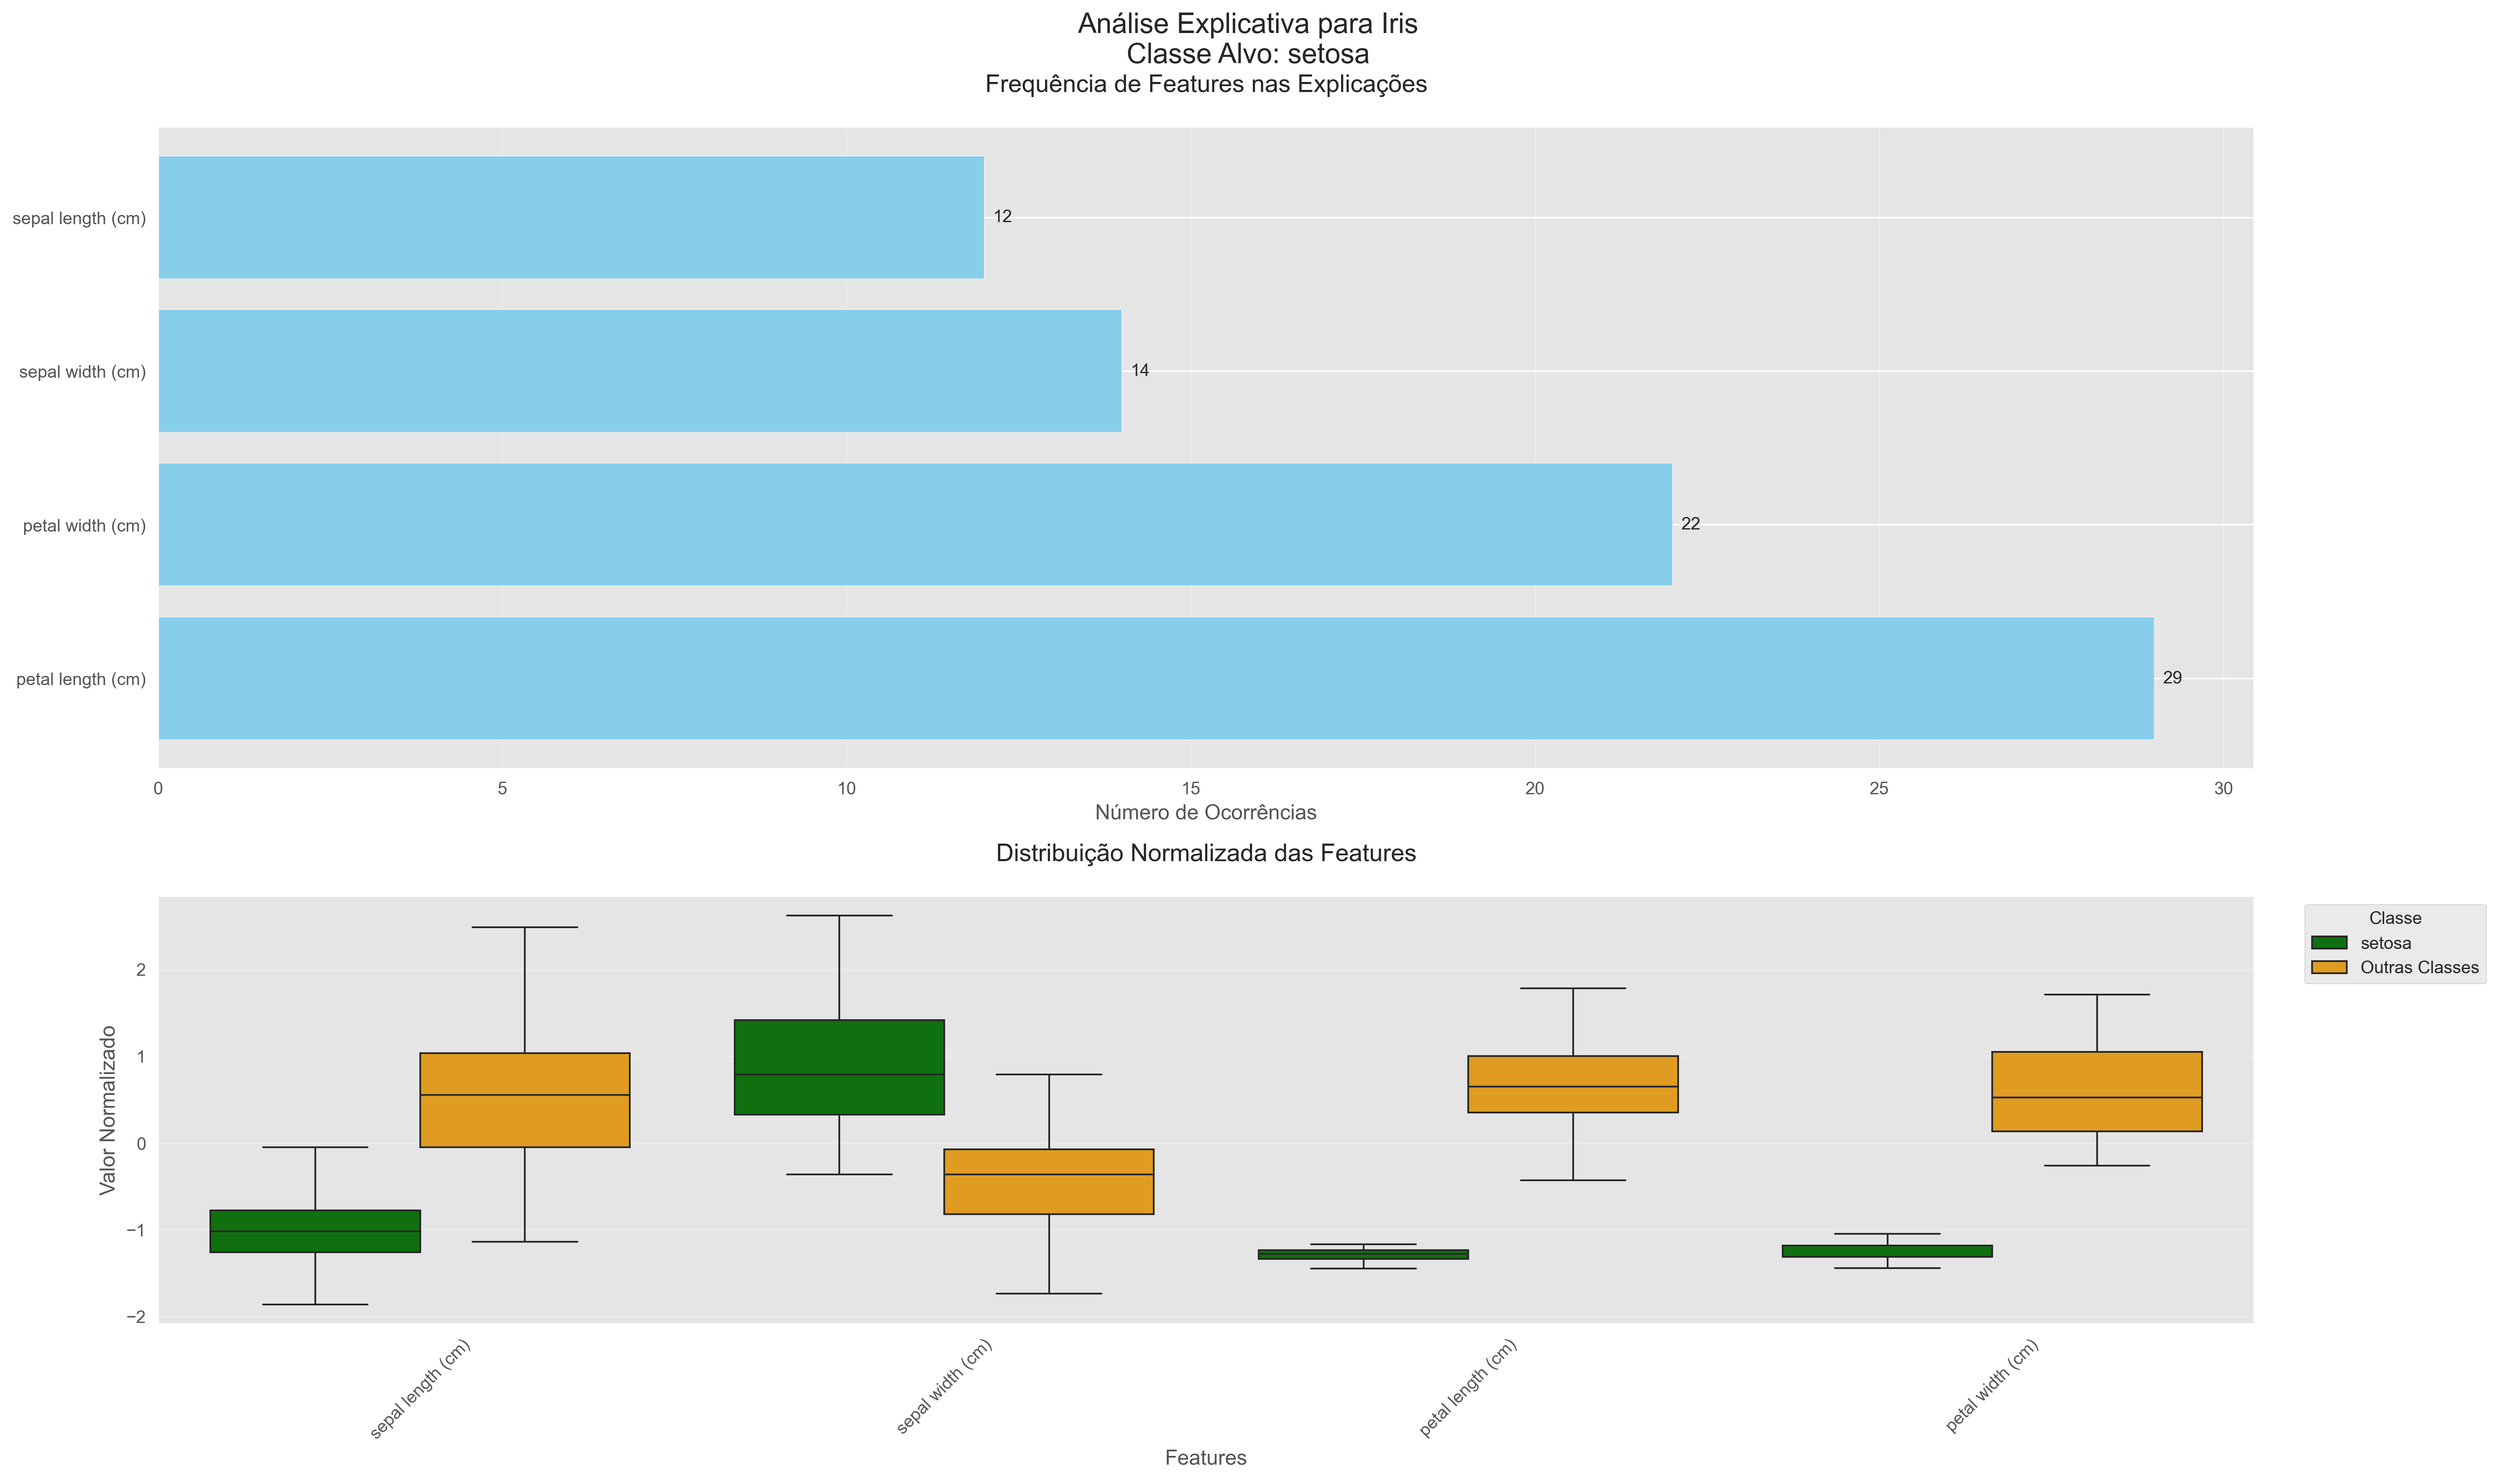
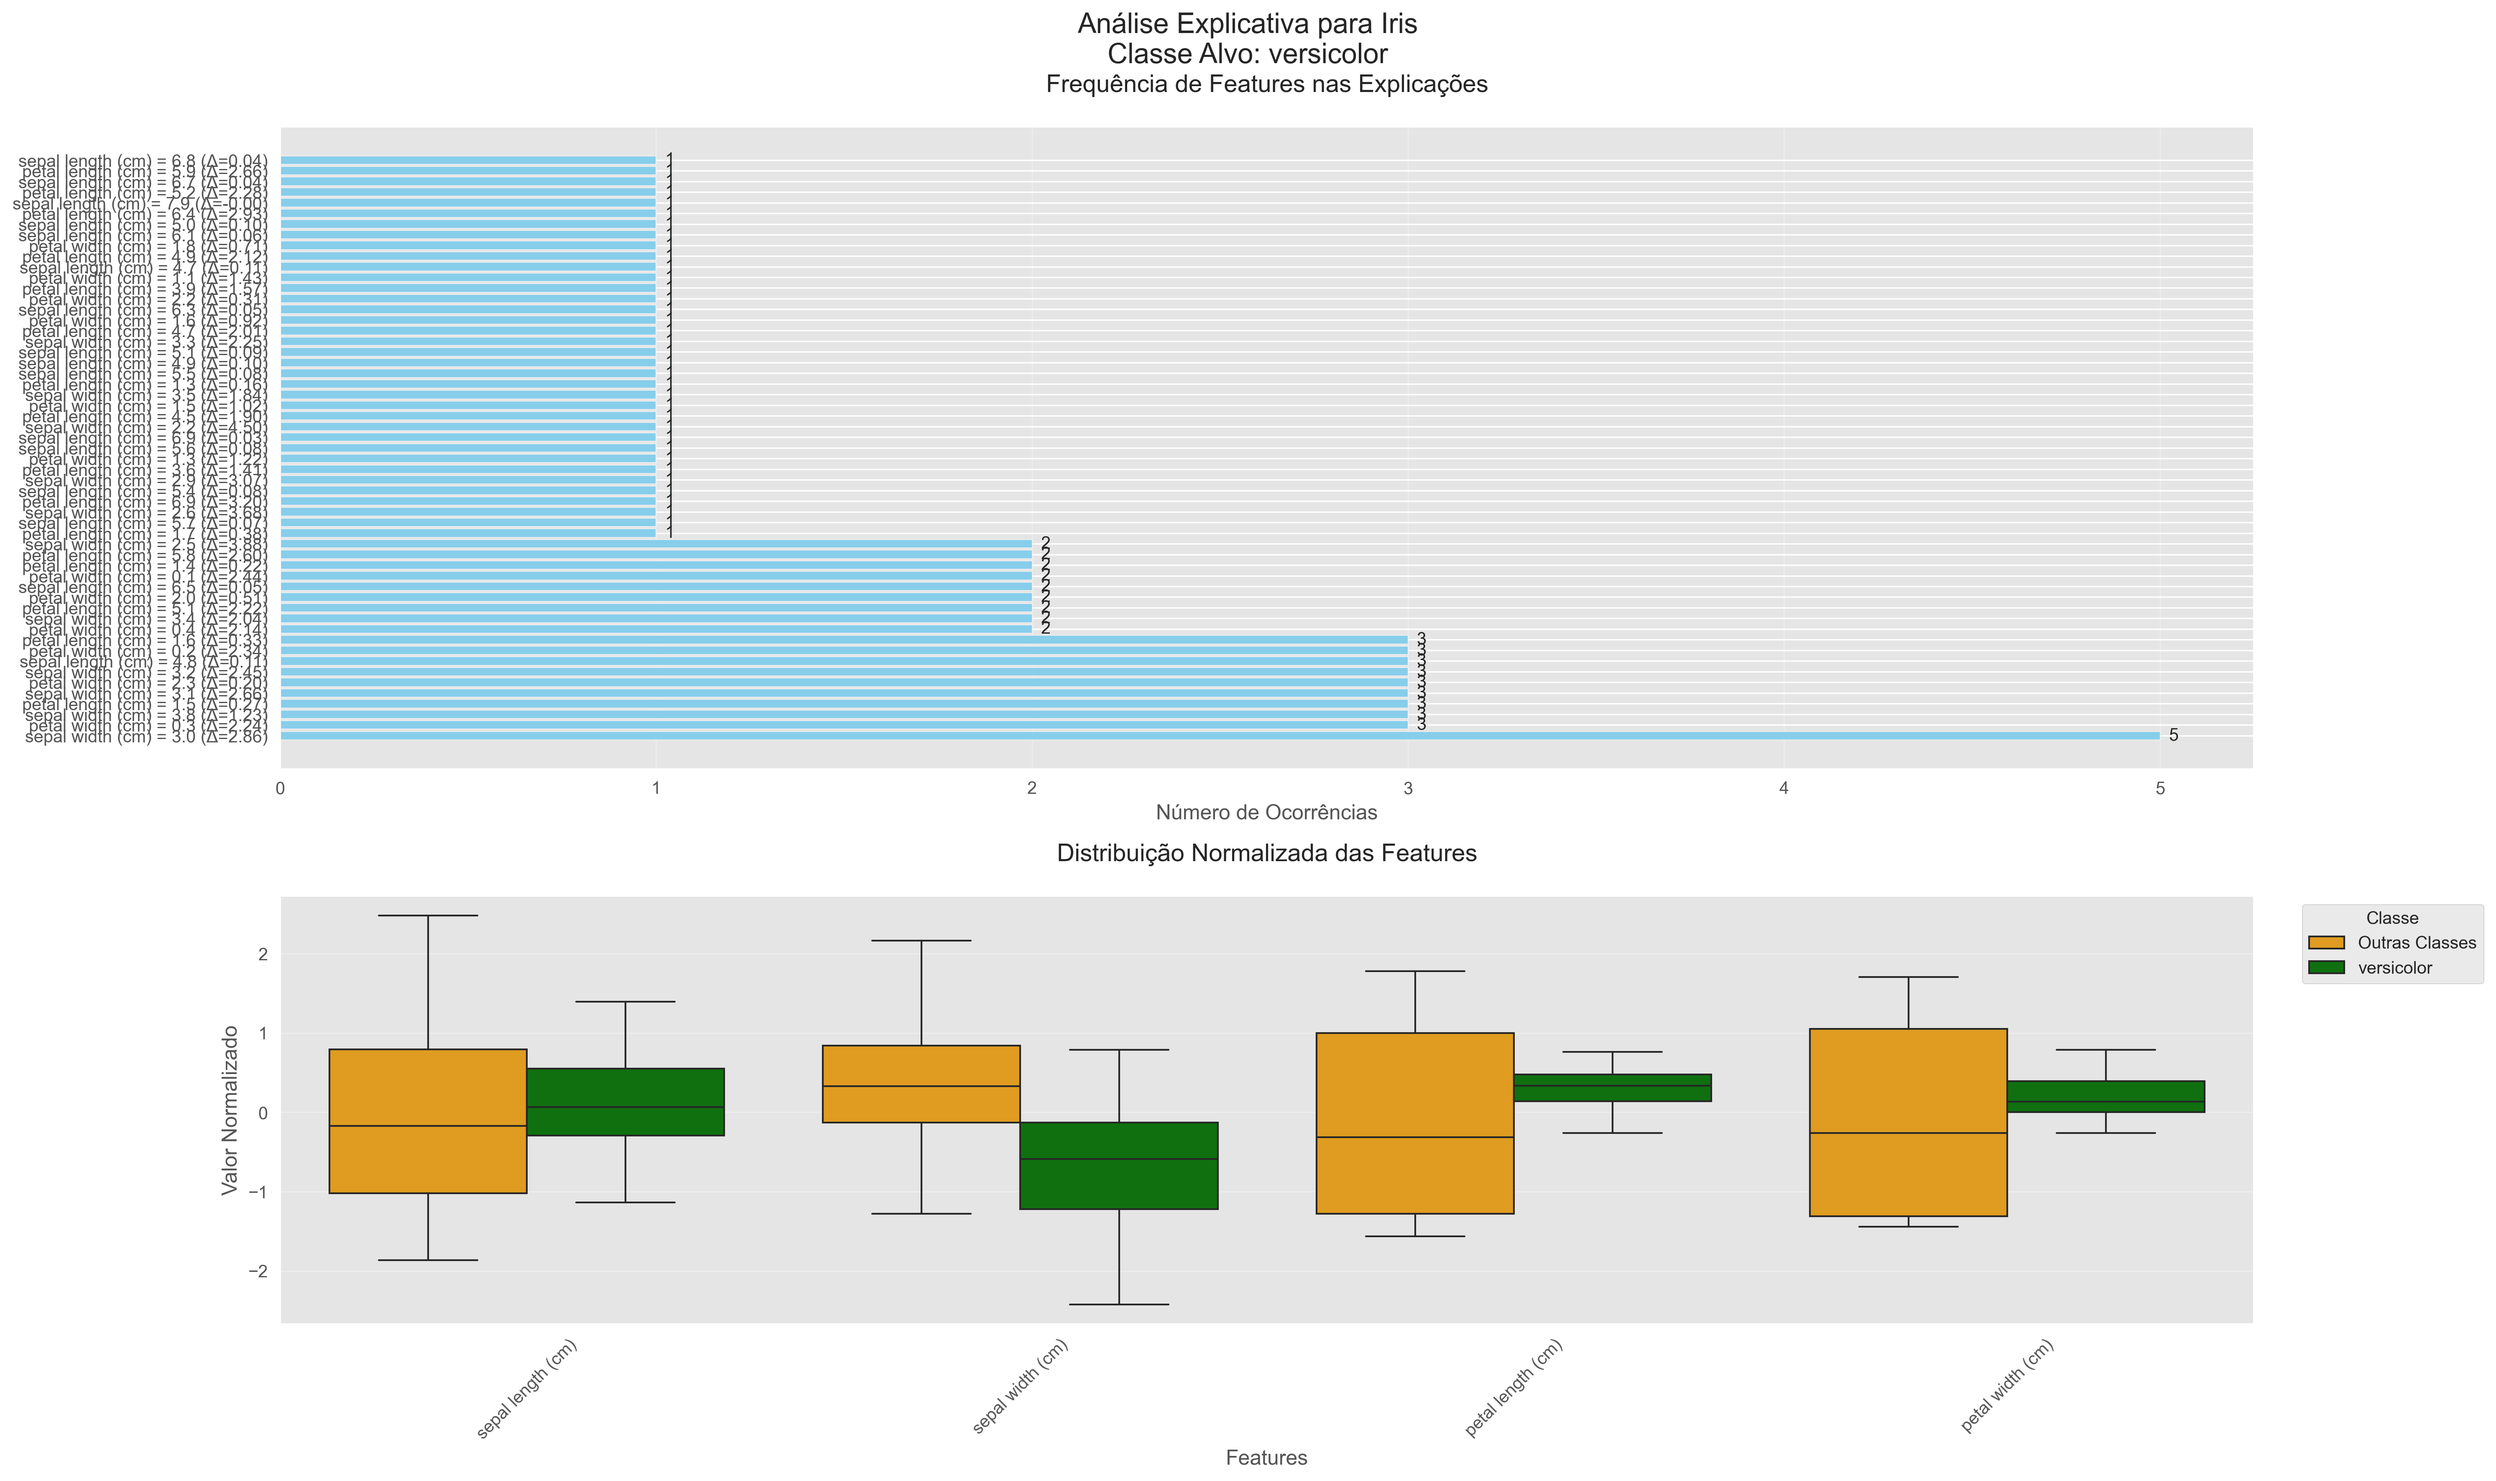
de_volta

diff --git a/explanations/pi_explanation.py b/explanations/pi_explanation.py
@@ -19,7 +19,7 @@ def calcular_deltas(Vs, X, w, classe_verdadeira):
             delta = (Vs[feature] - extremo) * w[i]
         else:  # Classe não-alvo 
             extremo = X[feature].max() if w[i] < 0 else X[feature].min()
-            delta = (extremo - Vs[feature]) * w[i]
+            delta =  (Vs[feature] - extremo) * w[i]
         deltas.append(delta)
     return deltas
 
@@ -42,23 +42,18 @@ def one_explanation(Vs, delta, R, feature_names, classe_0_nome, classe_verdadeir
     delta_sorted = sorted(enumerate(delta), key=lambda x: abs(x[1]), reverse=True)
     
     # Calcular threshold para considerar features relevantes
-    threshold = 0.1 * abs(sum(delta))  # Considera features que contribuem com pelo menos 10% do total
+    #estranho tem que rever
+    ## threshold = 0.1 * abs(sum(delta))  # Considera features que contribuem com pelo menos 10% do total
     
     for feature_idx, delta_val in delta_sorted:
-        if abs(delta_val) < threshold:
-            continue  # Pula features com contribuição insignificante
-            
-        feature = feature_names[feature_idx]
-        Xpl.append(f"{feature} - {Vs[feature]:.1f} (Δ={delta_val:.2f})")
-        
-        if classe_verdadeira == 0:
+       # if abs(delta_val) < threshold:
+       #     continue  # Pula features com contribuição insignificante
+        if R >= 0:
+            feature = feature_names[feature_idx]
+            Xpl.append(f"{feature} = {Vs[feature]:.1f} (Δ={delta_val:.2f})")
             R -= delta_val
-            if R <= 0: 
-                break
         else:
-            R += delta_val
-            if R >= 0: 
-                break
+            break
     
     if not Xpl:  # Se nenhuma feature foi selecionada
         Xpl.append("Nenhuma feature significativa identificada")
@@ -121,7 +116,8 @@ def analisar_instancias(X_test, y_test, classe_0_nome, class_names, modelo, X, g
             explicacoes.append(msg)
             rejeicoes.append(idx)
             continue
-            
+
+        # estranho também    
         classe_verdadeira = y_test[idx]
         
         # 1. Cálculo dos deltas (Artigo Eq. 14)

diff --git a/SHAP.py b/SHAP.py
@@ -3,7 +3,7 @@ import numpy as np
 from sklearn.linear_model import LogisticRegression
 from sklearn.model_selection import train_test_split
 import matplotlib.pyplot as plt
-from load_datasets import selecionar_dataset_e_classe
+from data.load_datasets import selecionar_dataset_e_classe
 import shap
 import sys
 import warnings
